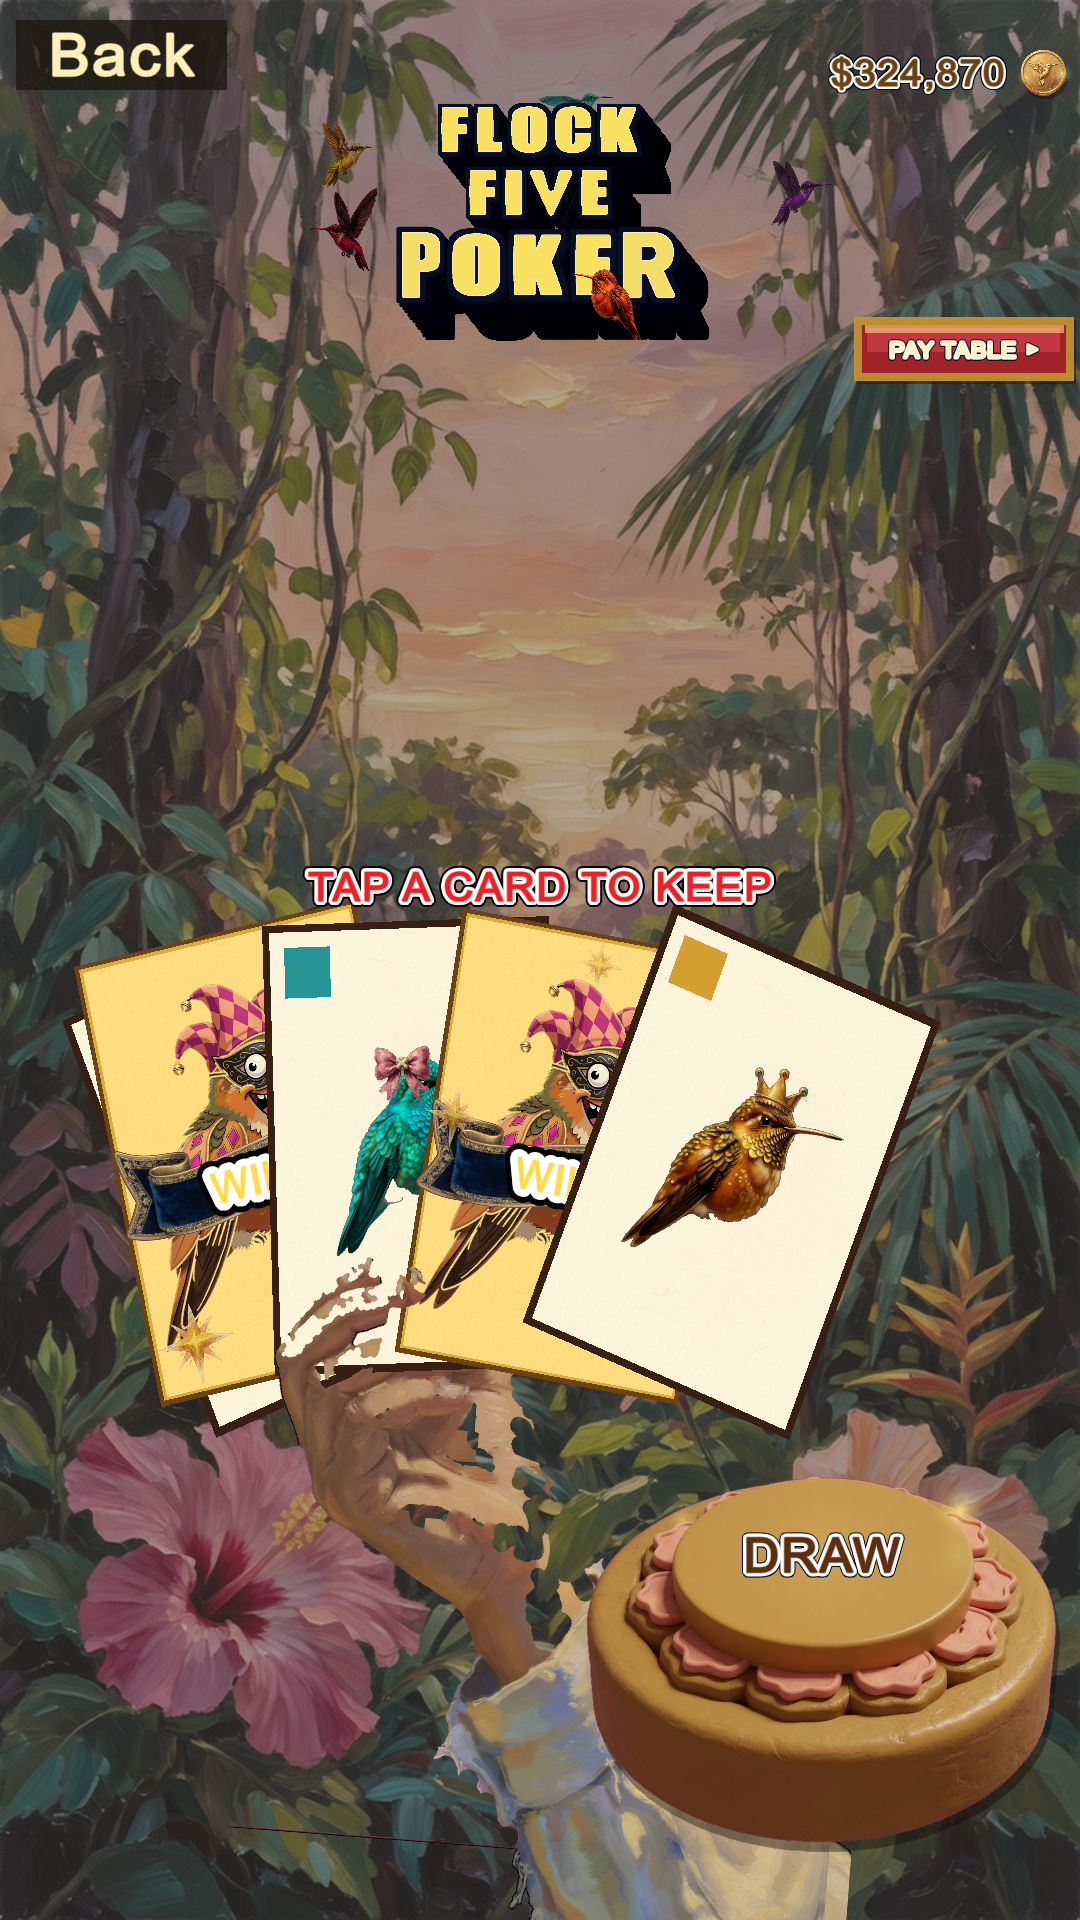
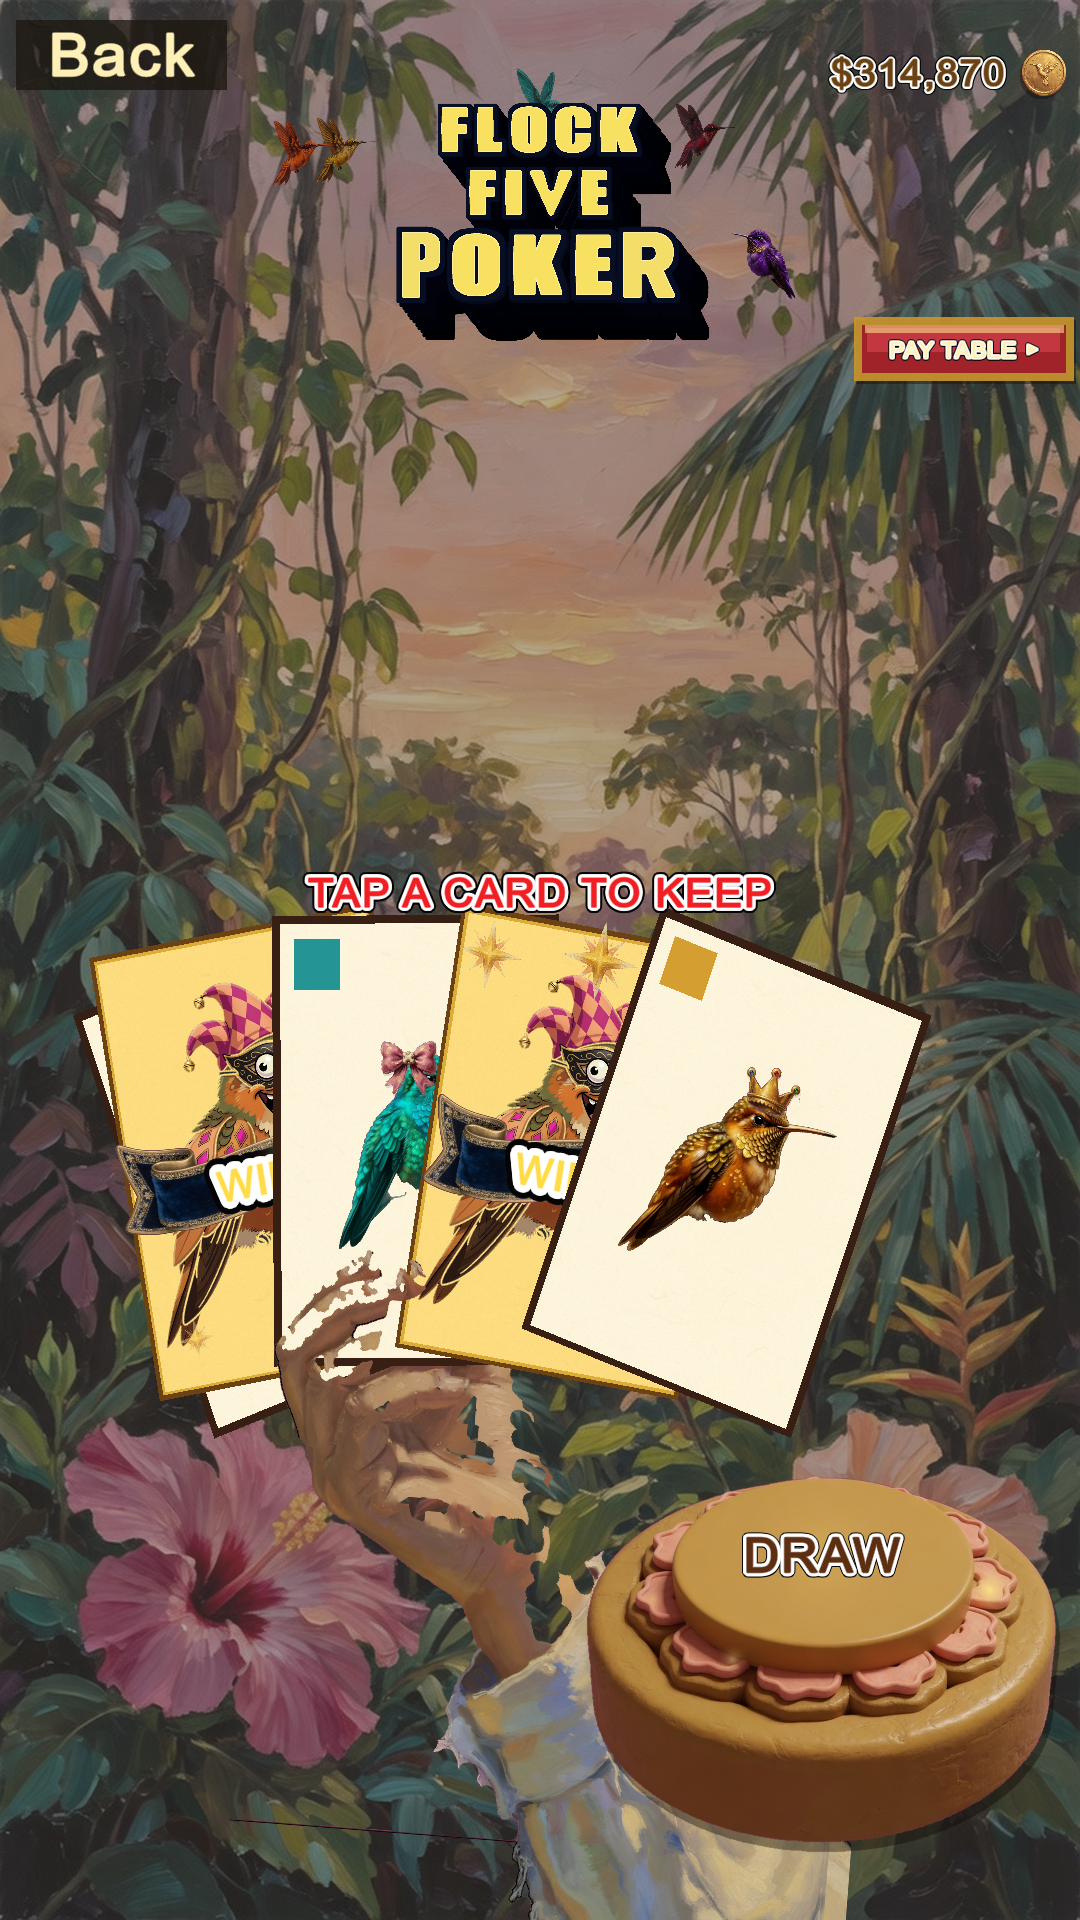
Poker: opaque fan/hold hand + tighter five-up row gaps.
Draw fan/hold/pluck via sprite UVs and hard-clip the hand textures so
palm holes and white finger fringe cannot show cards through the grip.
Tighten PokerFanSpan when fewer than five cards remain, and cut the
five-up row gap. Re-shot fan, hold, and row.

diff --git a/Assets/_Project/Scripts/App/FlockFiveApp.cs b/Assets/_Project/Scripts/App/FlockFiveApp.cs
@@ -4182,7 +4182,7 @@ namespace FlockFive
             if (!_pokerStamp)
                 TickPokerPayTable(below, s);
 
-            float gap = 5f * s;
+            float gap = 2f * s;
             float maxRow = Screen.width - 24f * s;
             float cardW = Mathf.Min(Screen.width * 0.205f, 138f * s);
             cardW = Mathf.Min(cardW, (maxRow - (BirdPoker.HandSize - 1) * gap) / BirdPoker.HandSize);
@@ -4872,7 +4872,7 @@ namespace FlockFive
         const float DealFanT = 0.50f;
         const float DealBumpT = 0.24f;
         const float PokerFanScale = 1.42f;
-        const float PokerFanSpan = 0.58f;
+        const float PokerFanSpan = 0.46f;
         const float PokerFanPinchU = 0.24f;
         const float PokerFanPinchV = 0.10f;
         const float PokerFanHandAspect = 0.80f;
@@ -5149,7 +5149,7 @@ namespace FlockFive
             float t = fanCount <= 1 ? 0.5f : fanIndex / (float)(fanCount - 1);
             float cardH = row.height * PokerFanScale;
             float cardW = cardH / 1.42f;
-            float span = row.width * PokerFanSpan * Mathf.Lerp(0.58f, 1f, (fanCount - 1) / 4f);
+            float span = row.width * PokerFanSpan * Mathf.Lerp(0.36f, 1f, (fanCount - 1) / 4f);
             float x = row.center.x - span * 0.5f + span * t - cardW * 0.5f;
             float mid = 1f - Mathf.Abs(t * 2f - 1f);
             // Sit in the hand, well below the hold row so keeps never cover the fan.
@@ -5158,10 +5158,10 @@ namespace FlockFive
             float sway = Mathf.Sin(Time.unscaledTime * 0.82f + fanIndex * 0.91f) * 2.0f;
             x += sway;
             // Extra pad so a rolled corner stays inside 9:16.
-            float leftPad = Screen.width * 0.10f;
-            float rightPad = Screen.width * 0.10f;
-            if (fanIndex == 0) leftPad += cardW * 0.38f;
-            if (fanIndex == fanCount - 1) rightPad += cardW * 0.28f;
+            float leftPad = Screen.width * 0.16f;
+            float rightPad = Screen.width * 0.13f;
+            if (fanIndex == 0) leftPad += cardW * 0.30f;
+            if (fanIndex == fanCount - 1) rightPad += cardW * 0.20f;
             if (x < leftPad) x = leftPad;
             if (x + cardW > Screen.width - rightPad) x = Screen.width - rightPad - cardW;
             return new Rect(x, y + life, cardW, cardH);
@@ -5177,7 +5177,7 @@ namespace FlockFive
             return PokerFanRollAt(t) + Mathf.Sin(Time.unscaledTime * 1.18f + i * 0.73f) * 1.8f;
         }
 
-        float PokerFanRollAt(float t) => Mathf.Lerp(-22f, 22f, t);
+        float PokerFanRollAt(float t) => Mathf.Lerp(-16f, 16f, t);
 
         Rect PokerStackSeat(Rect row)
         {
@@ -5400,9 +5400,35 @@ namespace FlockFive
             GUIUtility.RotateAroundPivot(ang, new Vector2(pinchX, pinchY));
             GUIUtility.ScaleAroundPivot(new Vector2(squash, 2f - squash), new Vector2(pinchX, pinchY));
             GUI.color = new Color(1f, 1f, 1f, u);
-            GUI.DrawTexture(new Rect(x, y, w, h), spr.texture, ScaleMode.ScaleToFit, true);
+            DrawSprite(new Rect(x, y, w, h), spr, true);
             GUI.matrix = prev;
             GUI.color = Color.white;
+        }
+
+        static void DrawSprite(Rect dest, Sprite spr, bool scaleToFit)
+        {
+            if (spr == null || spr.texture == null) return;
+            var tex = spr.texture;
+            var r = spr.textureRect;
+            float tw = Mathf.Max(1f, tex.width);
+            float th = Mathf.Max(1f, tex.height);
+            var uv = new Rect(r.x / tw, r.y / th, r.width / tw, r.height / th);
+            if (scaleToFit && r.height > 1f)
+            {
+                float texA = r.width / r.height;
+                float destA = dest.height > 1f ? dest.width / dest.height : texA;
+                if (texA > destA)
+                {
+                    float hh = dest.width / texA;
+                    dest = new Rect(dest.x, dest.y + (dest.height - hh) * 0.5f, dest.width, hh);
+                }
+                else
+                {
+                    float ww = dest.height * texA;
+                    dest = new Rect(dest.x + (dest.width - ww) * 0.5f, dest.y, ww, dest.height);
+                }
+            }
+            GUI.DrawTextureWithTexCoords(dest, tex, uv);
         }
 
         void TickPokerDash(float s)
@@ -5651,11 +5677,11 @@ namespace FlockFive
             float exit = 1f - Mathf.Clamp01((_pokerMotionT - last) / 0.16f);
             float a = enter * exit;
             if (a < 0.02f) return;
-            var seat = new Rect(row.x + cur * (cardW + 8f * s), row.y, cardW, cardH);
+            var seat = new Rect(row.x + cur * (cardW + 2f * s), row.y, cardW, cardH);
             float w = cardH * 2.2f;
             var hr = new Rect(seat.x - w * 0.72f + _pokerKick.x, seat.y + seat.height * 0.15f + _pokerKick.y, w, w);
             GUI.color = new Color(1f, 1f, 1f, a);
-            GUI.DrawTexture(hr, spr.texture, ScaleMode.ScaleToFit, true);
+            DrawSprite(hr, spr, true);
             GUI.color = Color.white;
         }
 

diff --git a/Assets/_Project/Scripts/App/SpriteCatalog.cs b/Assets/_Project/Scripts/App/SpriteCatalog.cs
@@ -118,7 +118,8 @@ namespace FlockFive
         {
             get
             {
-                if (_handFan == null) _handFan = TryLoad("Sprites/fx_hand_fan", 200f);
+                if (!HandHard(_handFan))
+                    _handFan = HardenHand(TryLoad("Sprites/fx_hand_fan", 200f), true);
                 return _handFan;
             }
         }
@@ -126,7 +127,8 @@ namespace FlockFive
         {
             get
             {
-                if (_handFanFront == null) _handFanFront = TryLoad("Sprites/fx_hand_fan_front", 200f);
+                if (!HandHard(_handFanFront))
+                    _handFanFront = HardenHand(TryLoad("Sprites/fx_hand_fan_front", 200f), true);
                 return _handFanFront;
             }
         }
@@ -134,10 +136,14 @@ namespace FlockFive
         {
             get
             {
-                if (_handPluck == null) _handPluck = TryLoad("Sprites/fx_hand_pluck", 200f);
+                if (!HandHard(_handPluck))
+                    _handPluck = HardenHand(TryLoad("Sprites/fx_hand_pluck", 200f), true);
                 return _handPluck;
             }
         }
+
+        static bool HandHard(Sprite spr) =>
+            spr != null && spr.texture != null && spr.texture.filterMode == FilterMode.Point;
         public static Sprite WildBanner
         {
             get
@@ -483,6 +489,84 @@ namespace FlockFive
             Debug.LogWarning("Missing sprite " + path);
 #endif
             return Fallback(ppu);
+        }
+
+        // Hard-clip alpha and fill interior holes so IMGUI cards cannot
+        // show through the palm, and bilinear fringe cannot read as a
+        // torn white finger mask.
+        static Sprite HardenHand(Sprite src, bool fillHoles)
+        {
+            if (src == null || src.texture == null) return src;
+            var srcTex = src.texture;
+            int w = srcTex.width;
+            int h = srcTex.height;
+            Color[] pix;
+            try { pix = srcTex.GetPixels(); }
+            catch { return src; }
+            for (int i = 0; i < pix.Length; i++)
+            {
+                if (pix[i].a < 0.5f) pix[i] = new Color(0f, 0f, 0f, 0f);
+                else
+                {
+                    var p = pix[i];
+                    p.a = 1f;
+                    pix[i] = p;
+                }
+            }
+            if (fillHoles)
+            {
+                int n = pix.Length;
+                var outside = new bool[n];
+                var q = new int[n];
+                int qh = 0, qt = 0;
+                void Enq(int i)
+                {
+                    if ((uint)i >= (uint)n || outside[i] || pix[i].a >= 0.5f) return;
+                    outside[i] = true;
+                    q[qt++] = i;
+                }
+                for (int x = 0; x < w; x++) { Enq(x); Enq((h - 1) * w + x); }
+                for (int y = 0; y < h; y++) { Enq(y * w); Enq(y * w + w - 1); }
+                while (qh < qt)
+                {
+                    int i = q[qh++];
+                    int x = i % w;
+                    if (x > 0) Enq(i - 1);
+                    if (x + 1 < w) Enq(i + 1);
+                    if (i >= w) Enq(i - w);
+                    if (i + w < n) Enq(i + w);
+                }
+                var skin = new Color(0.78f, 0.56f, 0.44f, 1f);
+                for (int y = 0; y < h; y++)
+                for (int x = 0; x < w; x++)
+                {
+                    int i = y * w + x;
+                    if (outside[i] || pix[i].a >= 0.5f) continue;
+                    Color fill = skin;
+                    if (x > 0 && pix[i - 1].a >= 0.5f) fill = pix[i - 1];
+                    else if (y > 0 && pix[i - w].a >= 0.5f) fill = pix[i - w];
+                    fill.a = 1f;
+                    pix[i] = fill;
+                }
+                for (int y = h - 1; y >= 0; y--)
+                for (int x = w - 1; x >= 0; x--)
+                {
+                    int i = y * w + x;
+                    if (outside[i] || pix[i].a >= 0.5f) continue;
+                    Color fill = skin;
+                    if (x + 1 < w && pix[i + 1].a >= 0.5f) fill = pix[i + 1];
+                    else if (y + 1 < h && pix[i + w].a >= 0.5f) fill = pix[i + w];
+                    fill.a = 1f;
+                    pix[i] = fill;
+                }
+            }
+            var tex = new Texture2D(w, h, TextureFormat.RGBA32, false);
+            tex.filterMode = FilterMode.Point;
+            tex.wrapMode = TextureWrapMode.Clamp;
+            tex.SetPixels(pix);
+            tex.Apply(false, false);
+            return Sprite.Create(tex, new Rect(0f, 0f, w, h), new Vector2(0.5f, 0.5f),
+                src.pixelsPerUnit, 0, SpriteMeshType.FullRect);
         }
 
         static Sprite TryLoad(string path, float ppu)
